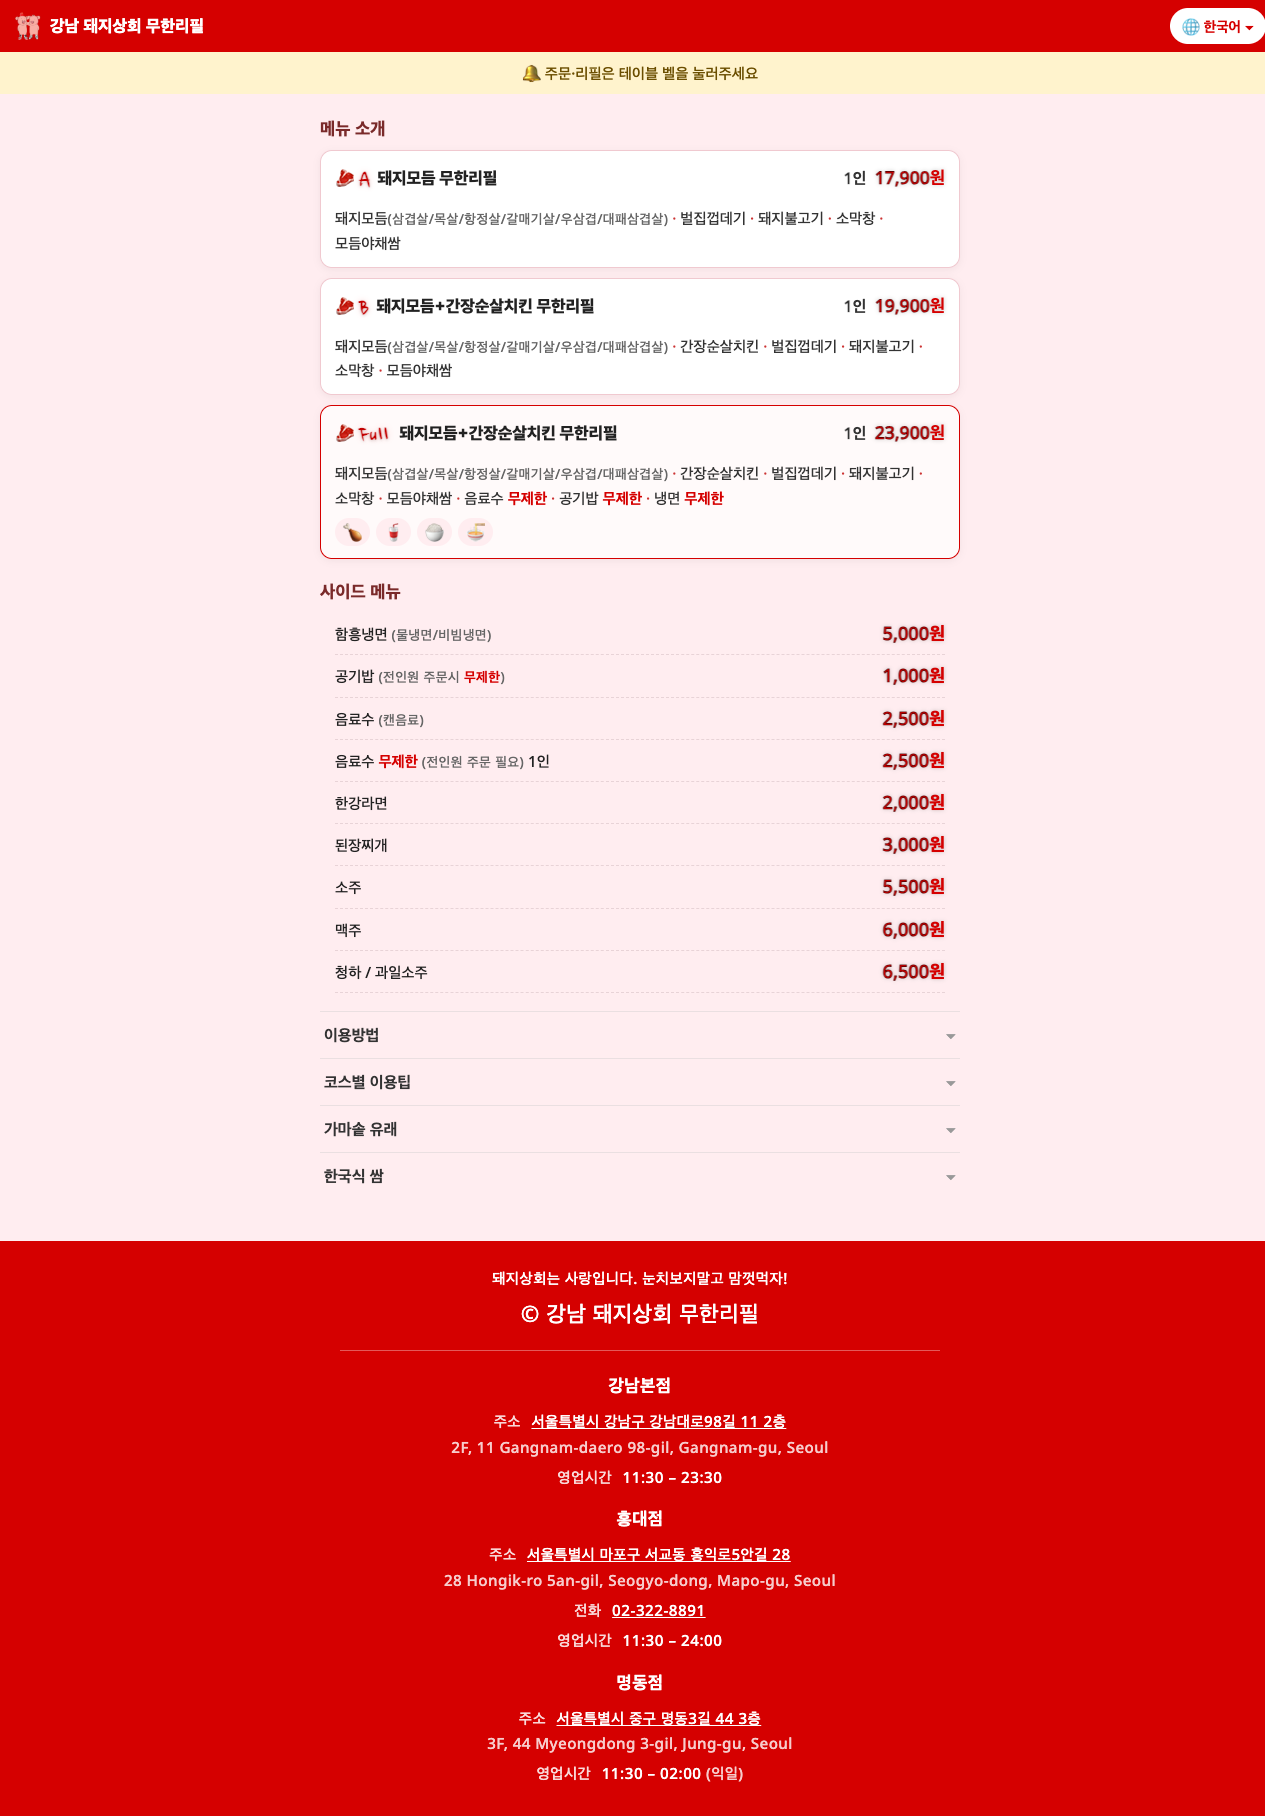
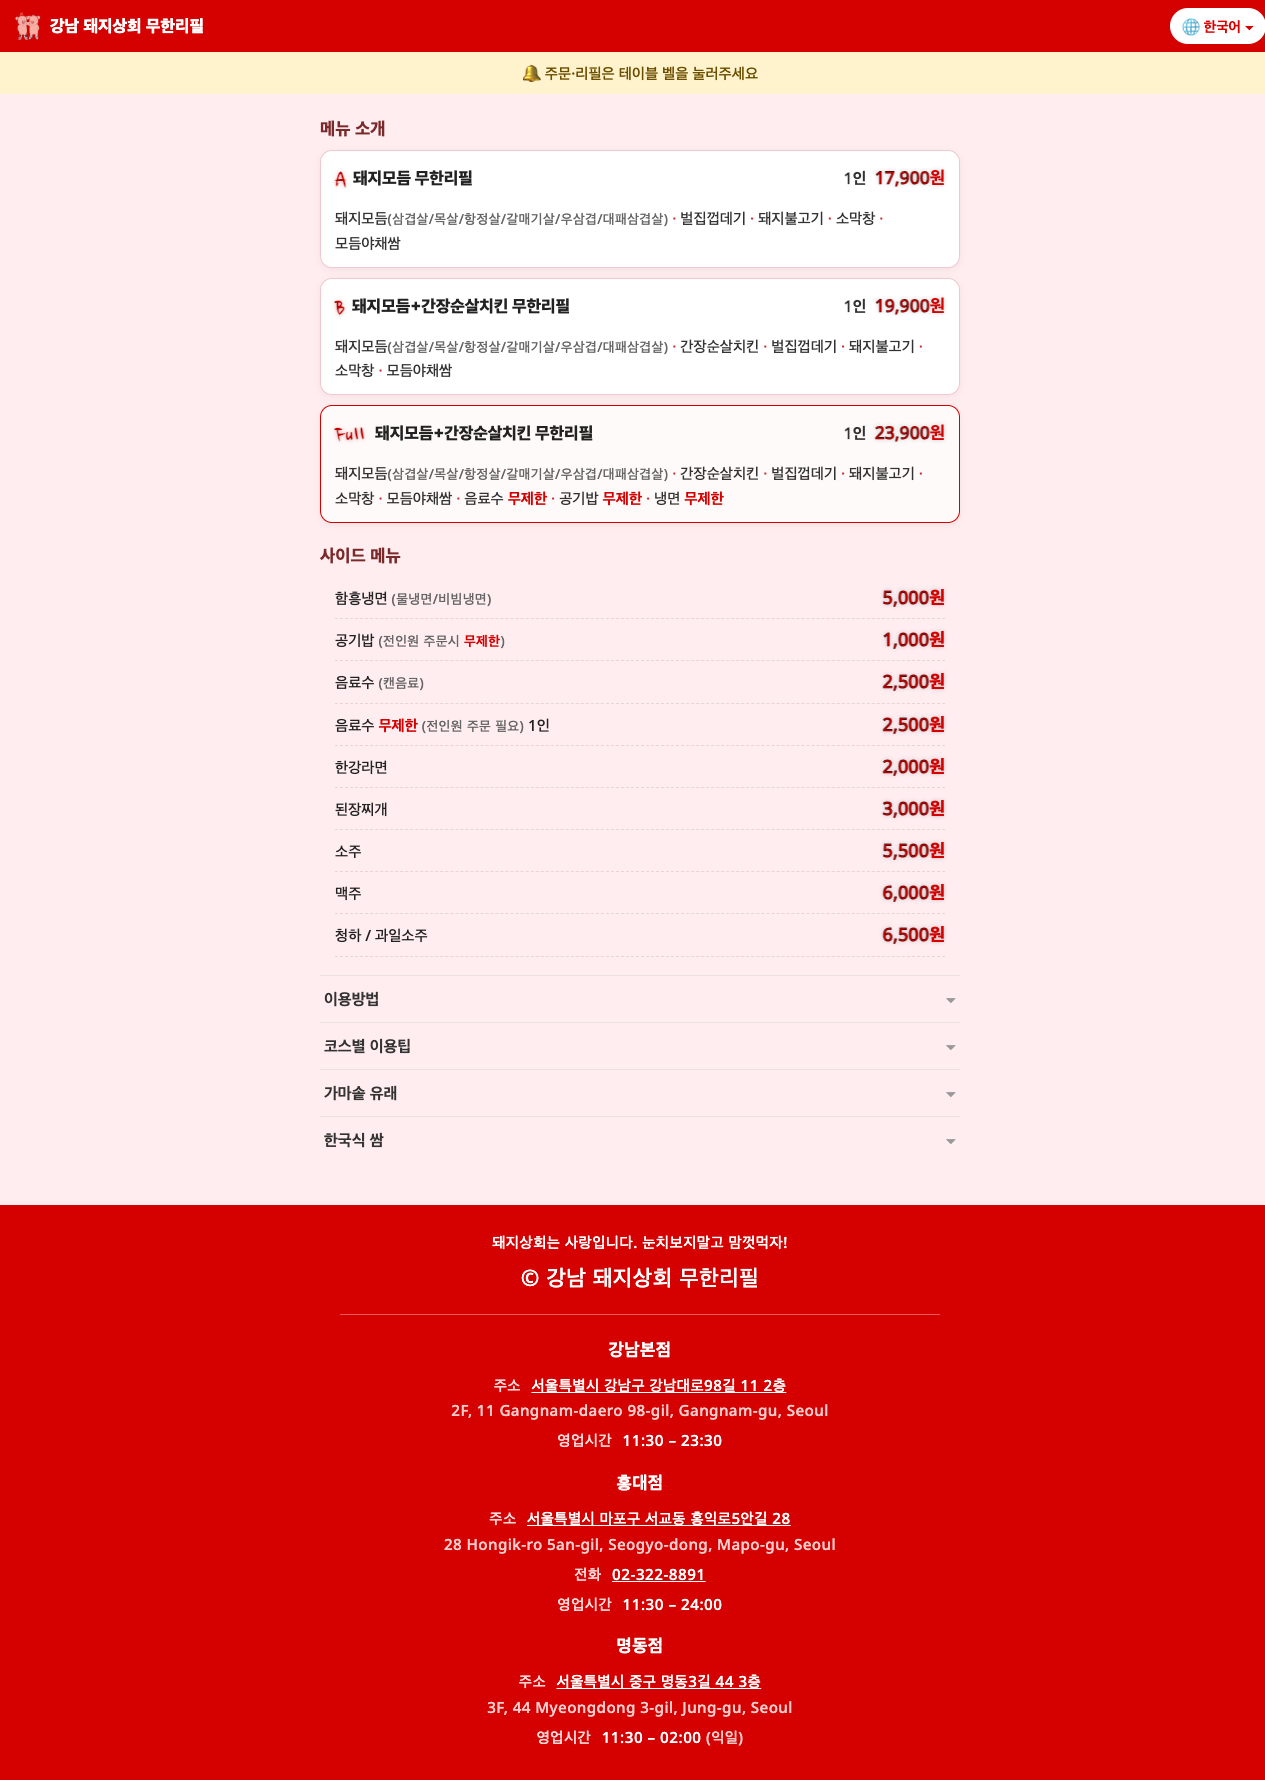
feat: 코스 카드 이모지(제목 앵커 🥩, Full 칩 🍗🥤🍚🍜) 제거 - 사용자 결정, 스크린샷 갱신

diff --git a/js/render.js b/js/render.js
@@ -66,9 +66,9 @@ function markSeparators(root) {
  * 코스 카드 한 장. 13개 언어 pane 을 모두 넣고 현재 언어만 보인다.
  * @param {string} contentKey  "courseA" | "courseB" | "courseF"
  * @param {string} currentLang
- * @param {{icon?: string, featured?: boolean, chips?: string[]}} options
+ * @param {{featured?: boolean}} options
  */
-export function buildCourseCard(contentKey, currentLang, { icon = "", featured = false, chips = [] } = {}) {
+export function buildCourseCard(contentKey, currentLang, { featured = false } = {}) {
   const card = el("article", featured ? "course-card is-featured" : "course-card");
   card.dataset.course = contentKey;
 
@@ -88,7 +88,6 @@ export function buildCourseCard(contentKey, currentLang, { icon = "", featured =
         pane.innerHTML = html;
       } else {
         const title = el("div", "course-title", [parts.title]);
-        if (icon) title.dataset.icon = icon; // CSS ::before 로 그린다 (textContent 에 안 들어감)
         const head = el("div", "course-head", [title, el("div", "course-price", parts.priceLine)]);
         const body = el("div", "course-body", parts.body);
         markSeparators(body);
@@ -96,17 +95,6 @@ export function buildCourseCard(contentKey, currentLang, { icon = "", featured =
       }
     }
     card.appendChild(pane);
-  }
-
-  if (chips.length) {
-    const row = el("div", "course-chips");
-    row.setAttribute("aria-hidden", "true"); // 본문에 이미 글로 있는 정보의 시각 강조일 뿐
-    chips.forEach((c) => {
-      const chip = el("span", "chip");
-      chip.textContent = c;
-      row.appendChild(chip);
-    });
-    card.appendChild(row);
   }
   return card;
 }

diff --git a/tests/browser/test-course-cards.js b/tests/browser/test-course-cards.js
@@ -17,6 +17,7 @@
       if ([...p.querySelectorAll(".course-body span.small-note")].some((s) => s.textContent.trim() === "+")) errs.push(`${id}: + 구분자 미처리`);
     }
   }
-  if (!document.querySelector('.course-card[data-course="courseF"].is-featured > .course-chips')) errs.push("Full 카드 강조/칩 없음");
+  if (!document.querySelector('.course-card[data-course="courseF"].is-featured')) errs.push("Full 카드 강조 없음");
+  if (document.querySelector(".course-chips, .course-title[data-icon]")) errs.push("이모지 칩/아이콘이 남아 있음 (제거 결정)");
   return errs.length ? "FAIL: " + errs.slice(0, 6).join(" / ") : "PASS";
 })()

diff --git a/style.css b/style.css
@@ -768,10 +768,6 @@ body.scroll-locked {
   font-weight: 800;
 }
 
-.course-title[data-icon]::before {
-  content: attr(data-icon) " ";
-}
-
 .course-title .menu-subtitle {
   display: inline;
   font-size: inherit;
@@ -816,19 +812,6 @@ body.scroll-locked {
 /* .sep 의 " · " 텍스트는 js/render.js 가 이미 넣었다 — 여기서는 색만 준다. ::before 로 content 를 넣지 말 것(중복). */
 .course-body .sep {
   color: #c33;
-}
-
-.course-chips {
-  display: flex;
-  gap: 6px;
-  margin-top: 8px;
-}
-
-.course-chips .chip {
-  padding: 2px 8px;
-  border-radius: 999px;
-  background: #FFEDF0;
-  font-size: 0.95rem;
 }
 
 /* 사이드 가격표 */

diff --git a/js/app.js b/js/app.js
@@ -8,11 +8,11 @@ const RTL_LANGS = ["ar"];
 const SCROLL_OFFSET_PX = 80;
 const FADE_OUT_MS = 300;
 
-// 첫 화면에 항상 펼쳐 두는 코스 카드. 이모지는 언어와 무관한 시각 앵커.
+// 첫 화면에 항상 펼쳐 두는 코스 카드. Full 만 테두리로 강조한다.
 const COURSES = [
-  { key: "courseA", icon: "🥩" },
-  { key: "courseB", icon: "🥩" },
-  { key: "courseF", icon: "🥩", featured: true, chips: ["🍗", "🥤", "🍚", "🍜"] },
+  { key: "courseA" },
+  { key: "courseB" },
+  { key: "courseF", featured: true },
 ];
 
 const FOCUSABLE = 'button, [href], input, select, textarea, [tabindex]:not([tabindex="-1"])';

diff --git a/docs/superpowers/specs/2026-09-15-qr-menu-ui-redesign-design.md b/docs/superpowers/specs/2026-09-15-qr-menu-ui-redesign-design.md
@@ -31,7 +31,7 @@
 | 용도 | 테이블 QR 메뉴판 (검색 유입은 부차) |
 | 레이아웃 | **A안 — 메뉴판 우선**: 코스·사이드를 한 장에 펼치고, 안내는 접이식 |
 | 코스 카드 문구 | **나 — 전부 나열**: 기존 문구 그대로, 구조만 재배치. B·Full을 "A + 치킨"식으로 줄이지 않는다 |
-| 사진 | 없음, 당분간 촬영 불가. 이모지(🥩🍗🥤🍚🍜)를 시각 앵커로 사용 |
+| 사진 | 없음, 당분간 촬영 불가. ~~이모지(🥩🍗🥤🍚🍜)를 시각 앵커로 사용~~ → **구현 확인 후 사용자 결정으로 이모지 전부 제거** (카드는 글자·색·테두리만) |
 | 기술 | 순수 HTML/CSS/JS, 빌드 없음, GitHub Pages 유지 |
 | 브랜드 | 색(빨강 #d50000 · 핑크 #FFEDF0 · 흰 카드), 로고, 브러시 폰트 유지 |
 | 문구 | `js/content.js`, `js/prices.js` **무변경**. 새로 쓰는 문구는 벨 안내 한 문장뿐 |

diff --git a/docs/superpowers/plans/2026-09-15-qr-menu-ui-redesign.md b/docs/superpowers/plans/2026-09-15-qr-menu-ui-redesign.md
@@ -1,6 +1,6 @@
 # QR 메뉴판 UI 개편 Implementation Plan
 
-> 상태: 완료 (2026-09-15) — 커밋 b8c3fdf … 마지막 커밋은 git log 참고.
+> 상태: 완료 (2026-09-15). 완료 후 변경: 사용자 결정으로 카드 이모지 앵커(🥩)와 Full 칩(🍗🥤🍚🍜) 제거 — COURSES 에서 icon/chips 삭제, render.js 옵션 정리, 관련 CSS 삭제, test-course-cards 는 "칩 없음" 확인으로 변경. — 커밋 b8c3fdf … 마지막 커밋은 git log 참고.
 
 > **For agentic workers:** REQUIRED SUB-SKILL: Use superpowers:subagent-driven-development (recommended) or superpowers:executing-plans to implement this plan task-by-task. Steps use checkbox (`- [ ]`) syntax for tracking.
 
